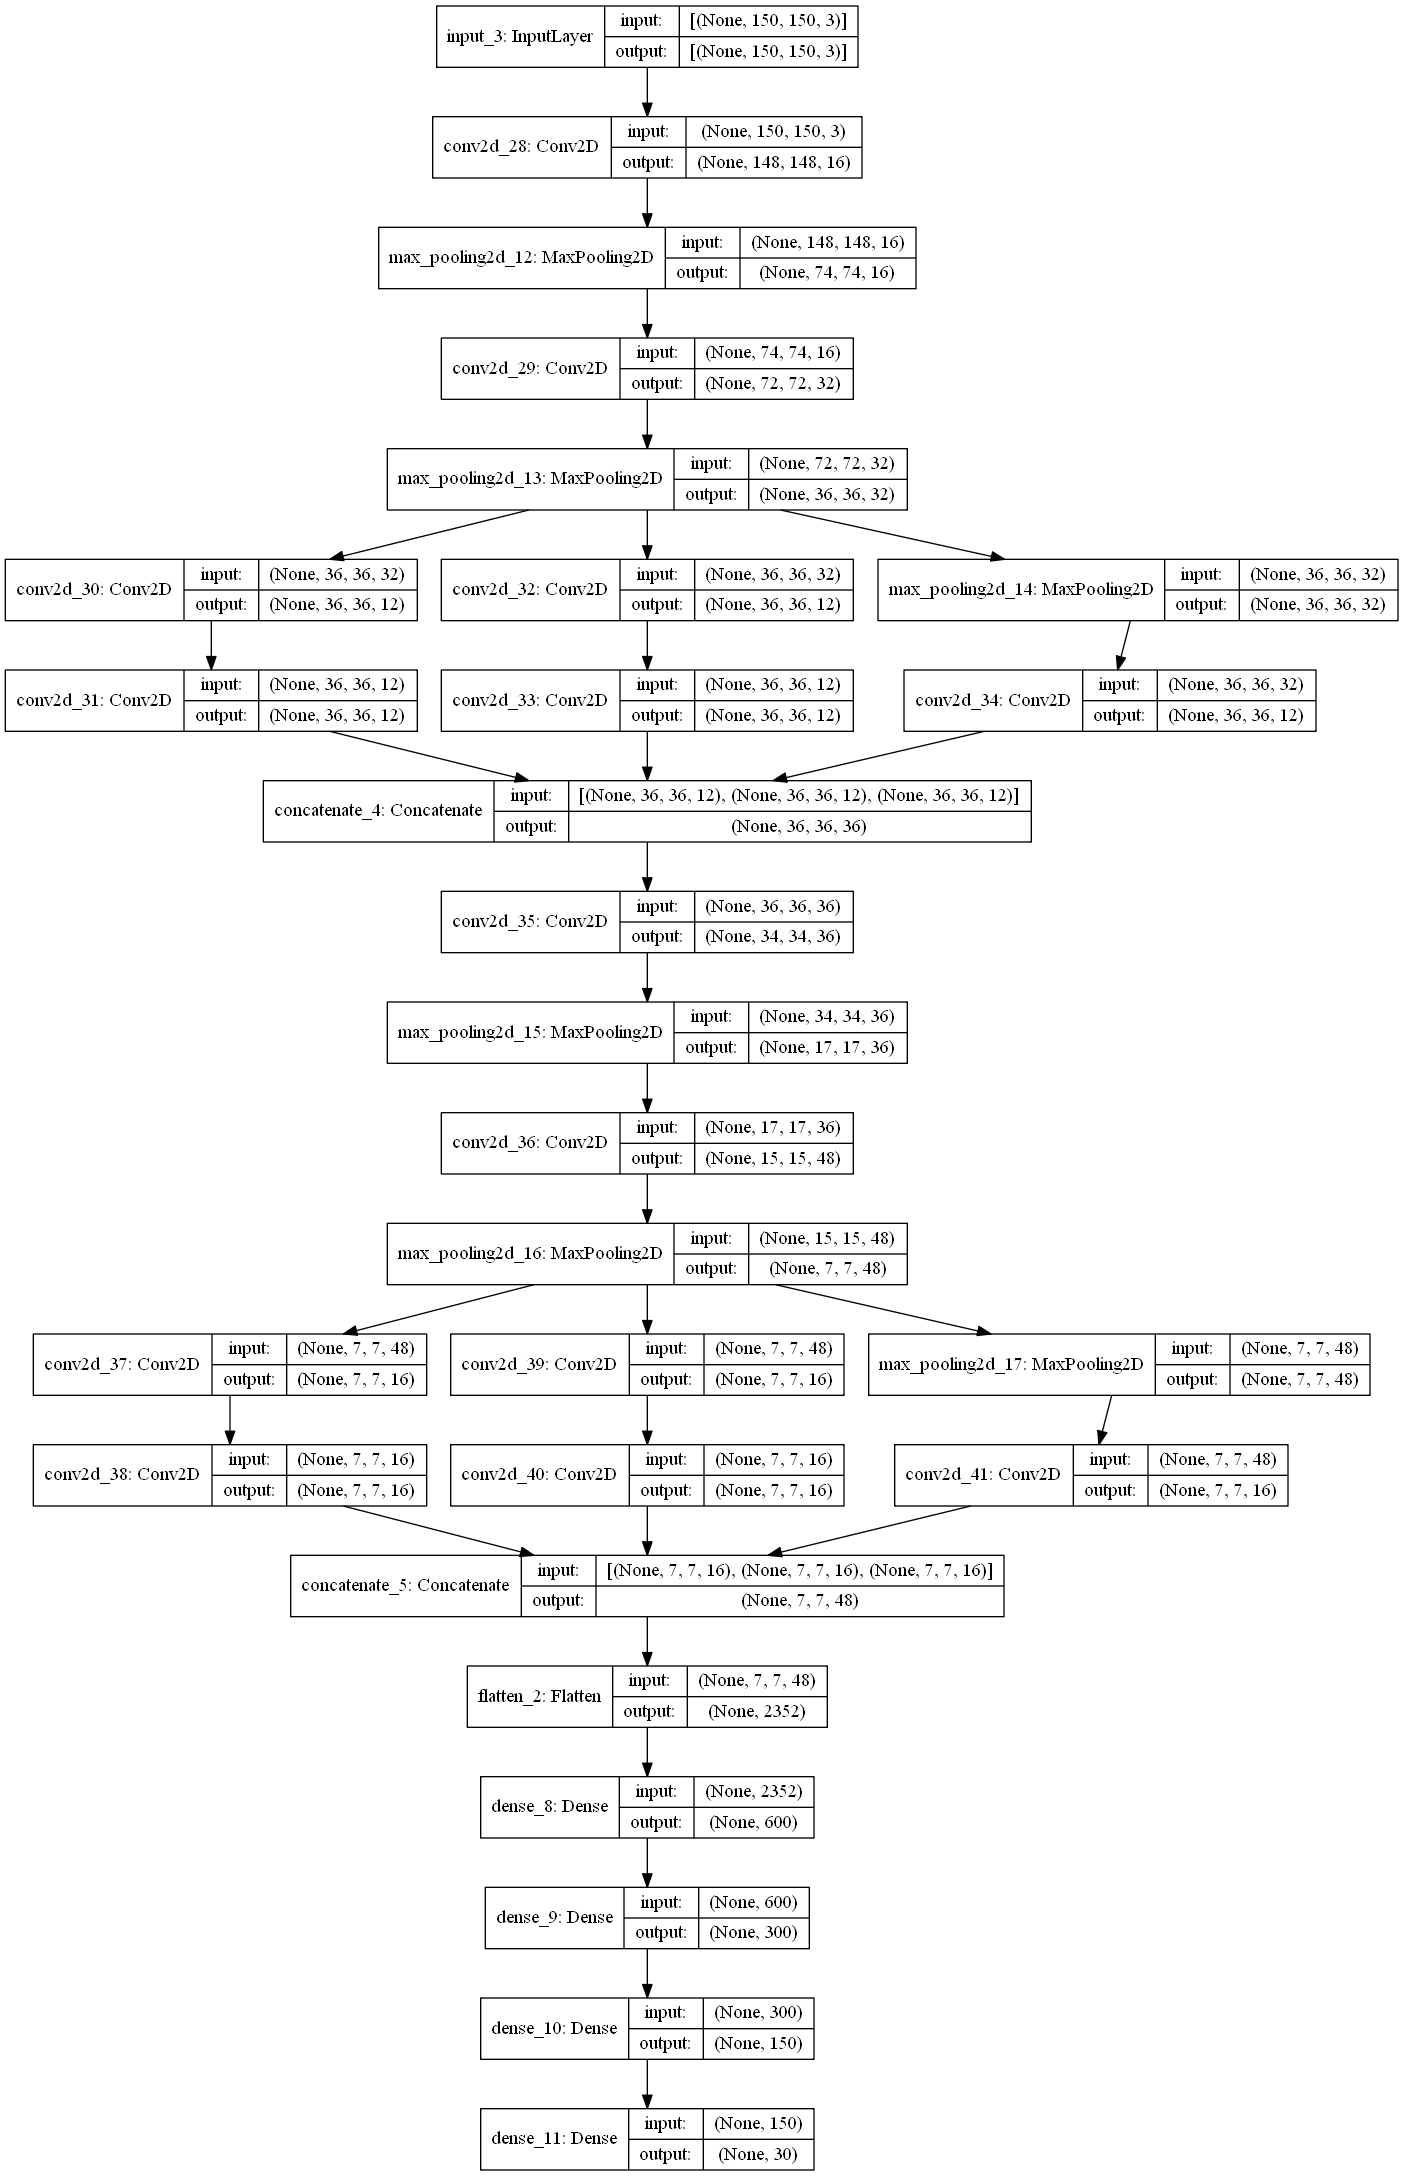
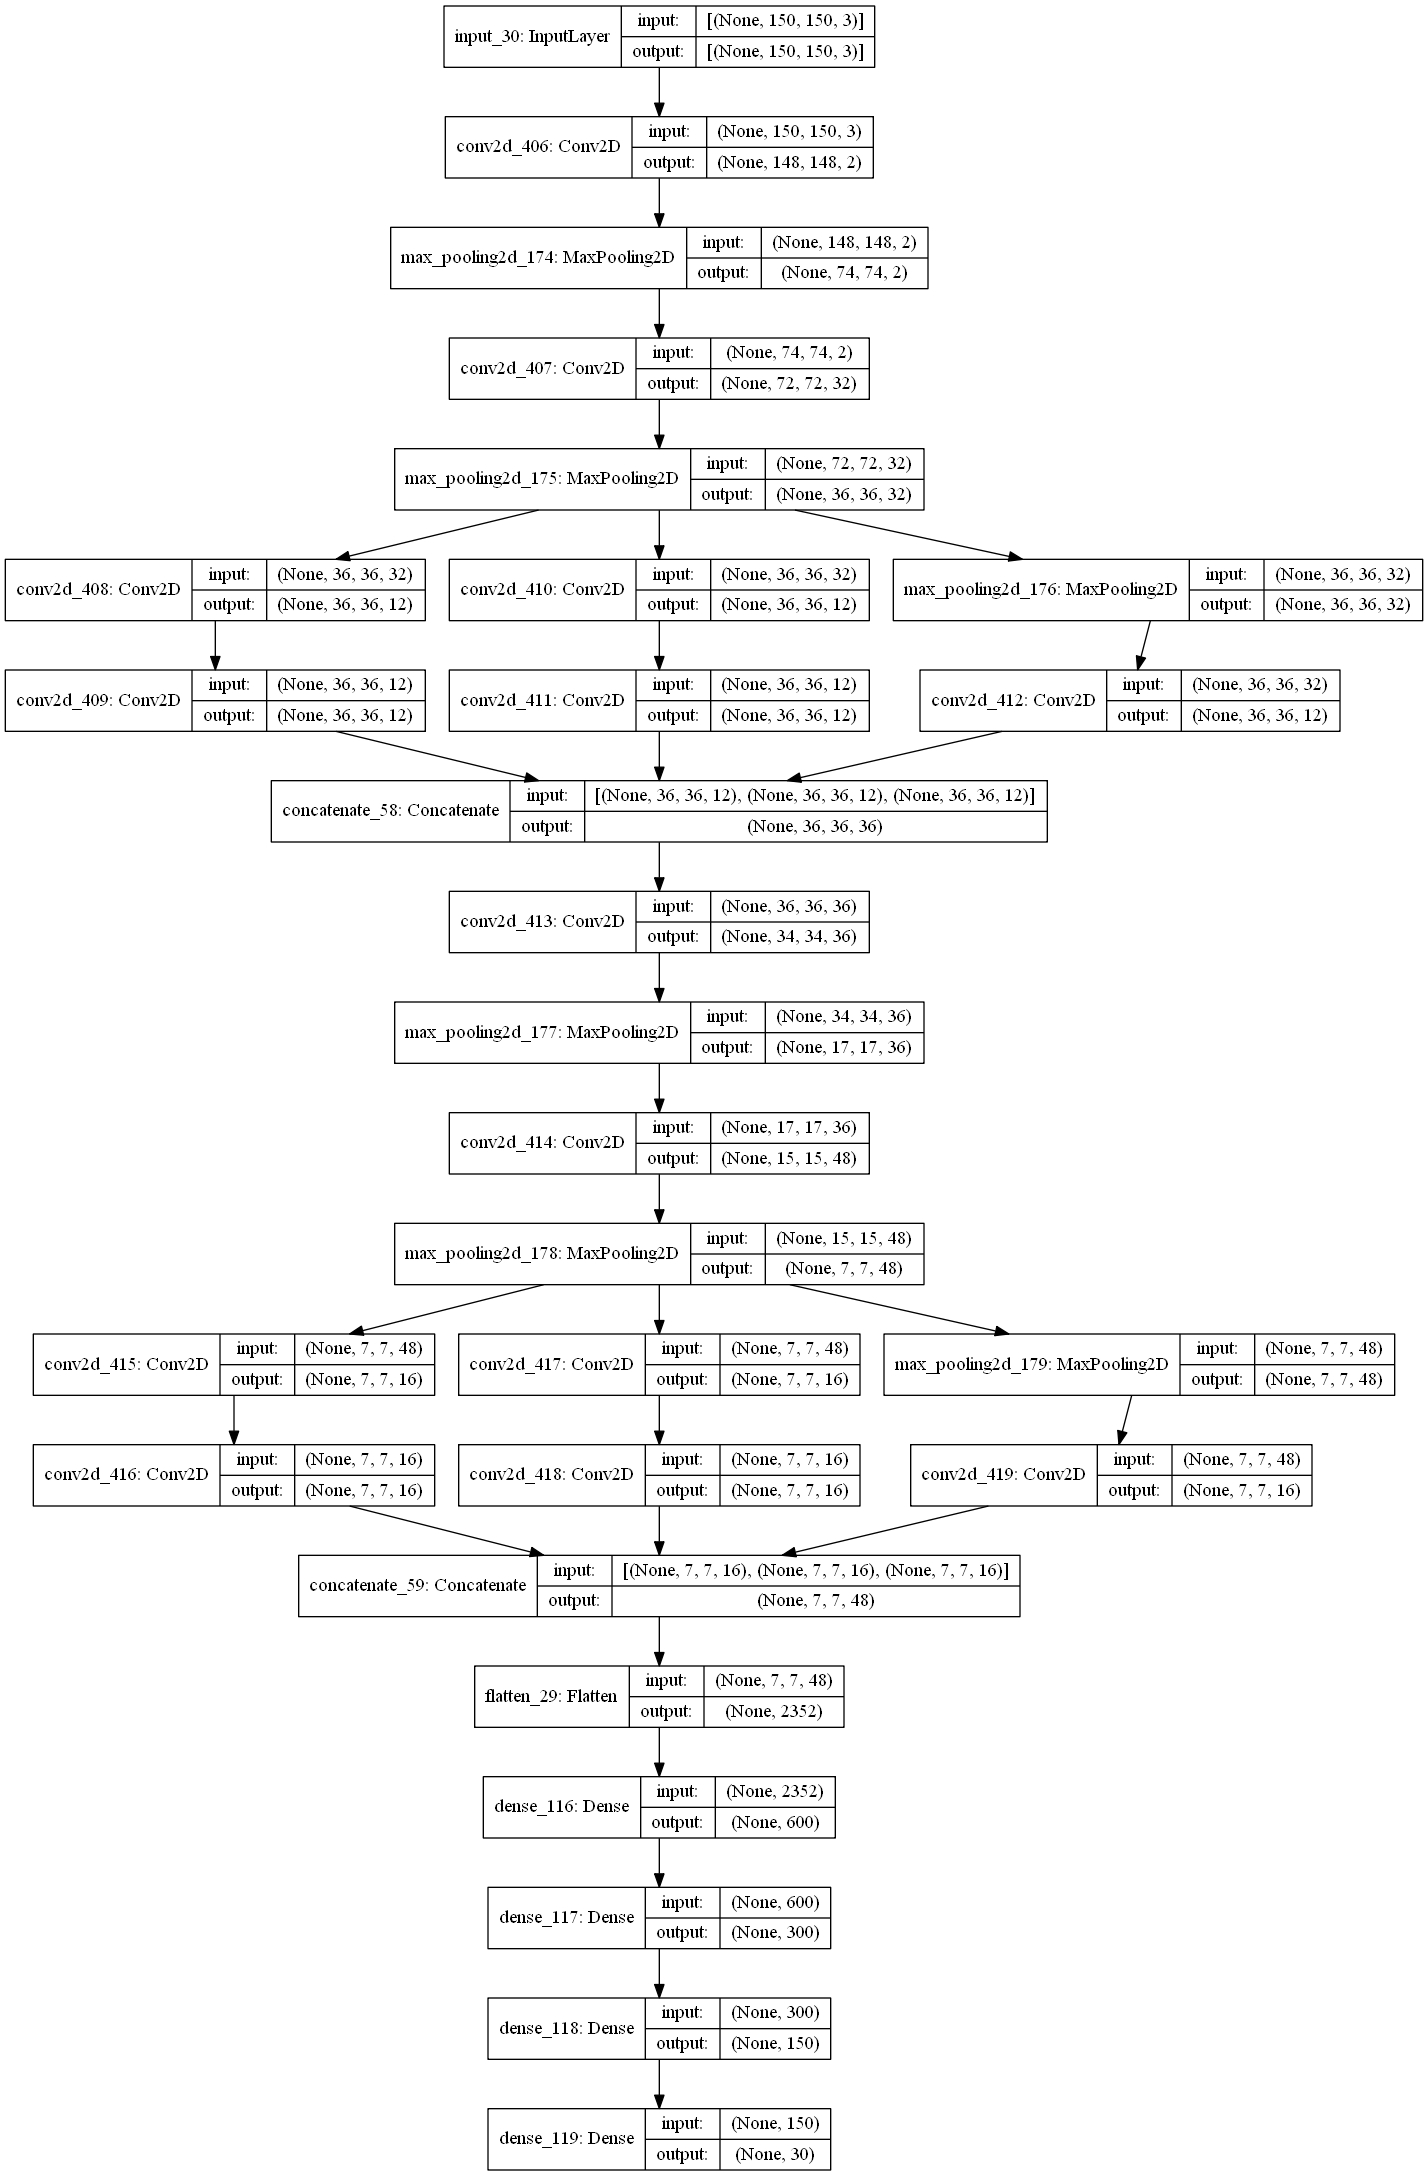
Used Pillow to combine all outputs of every layer of the model

diff --git a/visualization_by_layer.py b/visualization_by_layer.py
@@ -7,17 +7,21 @@ import random
 from   tensorflow.keras.preprocessing.image import img_to_array, load_img
 import matplotlib.pyplot as plt
 from Inception import my_model
-from constants import training_image
+from constants import training_image, training_directory, visualizations
+from PIL import Image
+
+np.seterr(divide='ignore', invalid='ignore')
 
 class visualization_by_layer():
     
     def __init__(self, animal):
-        self.path = training_image + animal
+        # Creates a list of every animal in the specified folder
+        self.path = training_directory + animal
         self.all_the_data = []
         for image_id in os.listdir(self.path):
             if os.path.isfile(self.path + "\\" + image_id):
                 self.all_the_data.append(image_id)
-        
+        # Randomly chooses an animal in the aggregated file paths
         img_path = random.choice(self.all_the_data)
         img = load_img(self.path + "\\" + img_path, target_size=(150, 150))
         x = img_to_array(img)
@@ -30,38 +34,42 @@ class visualization_by_layer():
         visualization_model = tf.keras.models.Model(inputs = my_model.input, outputs = successive_outputs)
         successive_feature_maps = visualization_model.predict(x)
 
-        #layer_names = [layer.name for layer in successive_outputs]
-        
+        position = 0
+        list_of_layers = []
         for layer, feature_map in zip(successive_layers, successive_feature_maps):
-  
+
             if len(feature_map.shape) == 4:
+                
                 # Only for the conv/maxpool layers, not the fully-connected layers
                 # feature map shape (1, size, size, n_features)
                 n_features = feature_map.shape[-1]
                 size = feature_map.shape[1]
             
-                # Tile our images in this matrix
+                # Tile images in this matrix
                 display_grid = np.zeros((size, size * n_features))
                 
-                # Postprocess the feature to be visually palatable
+                # Postprocess the feature
                 for i in range(n_features):
                     x  = feature_map[0, :, :, i]
                     x -= x.mean()
-                    x /= x.std ()
+                    x /= x.std()
                     x *=  64
                     x += 128
                     x  = np.clip(x, 0, 255).astype('uint8')
-                    display_grid[:, i * size : (i + 1) * size] = x # Tile each filter into a horizontal grid
+                    # Tile each filter into a horizontal grid
+                    display_grid[:, i * size : (i + 1) * size] = x
                 
                 width = 20. / n_features
                 height = 10. / n_features
+                plt.rcParams.update({'figure.max_open_warning': 0})
                 plt.figure(figsize=(width * n_features, height))
                 
+                # Function that formats the title of the layer and provides
+                # cursory information based on the type of layer
                 def get_layer_information(layer_name):
                     
                     information = []
                     title = ''
-                    title_info = ''
                     
                     layers_names = {
                             'conv2d' : "Convolutional 2D",
@@ -99,15 +107,44 @@ class visualization_by_layer():
                                   + ", Strides: " + information[2])
                     elif key == 'concatenate':
                         plt.title(title + ", Axis: " + information[1])
-
                 
                 get_layer_information(layer.name.lower())
                 
-                #plt.title(layer_info[0] + " " + str(layer.get_config()[layer_info[1]]))
                 plt.grid(False)
-                plt.imshow(display_grid, aspect='auto', cmap='viridis')
-                plt.savefig(training_image + '\\foo.png', bbox_inches='tight')
+                #plt.imshow(display_grid, aspect='auto', cmap='viridis')
+                
+                # Saves the output of every layer in the specified folder so they
+                # can be combined later
+                plt.savefig(visualizations + '\\' + str(position) + '.png', bbox_inches='tight')
+                list_of_layers.append(visualizations + '\\' + str(position) + '.png')
+                
+                position += 1
+
+        images = []
+        for each_layer in list_of_layers:
+            images.append(each_layer)
+        
+        widths, heights = zip(*(Image.open(each_image).size for each_image in images))
+        # Because of line 63, the width will be more or less the same for
+        # every output (depending on # of filters), however some are wider 
+        # than others by a few pixels leading to black space behind the image,
+        # so the minimum width is taken instead of the maximum
+        min_width = min(widths)
+        total_height = sum(heights)
+        
+        new_im = Image.new('RGB', (min_width, total_height))
+        
+        y_offset = 0    
+        for im in images:
+          new_im.paste(Image.open(im), (0,y_offset))
+          y_offset += Image.open(im).size[1]
+        
+        # Removes the files that each contain the output of one layer
+        for each_file in os.listdir(visualizations):
+            if os.path.isfile(visualizations + '\\' + each_file):
+                os.remove(visualizations + '\\' + each_file)
             
+        new_im.save(visualizations + '\\output_by_layers.jpg')
             
                 
-visualization_by_layer("Lion")
+visualization_by_layer("wolf")

diff --git a/constants.py b/constants.py
@@ -13,6 +13,7 @@ training_directory = external_drive_location + "\\train\\"
 testing_directory = external_drive_location + "\\test\\"
 predicting_directory = external_drive_location + "\\predict\\"
 labels_directory = external_drive_location + "\\animals_labels_train.csv"
+visualizations = github_drive_location + '\\Visualizations\\'
 
 training_image = "D:\\train\\"
 

diff --git a/Inception.py b/Inception.py
@@ -11,7 +11,7 @@ from constants import github_drive_location
 
 input_img = Input(shape=(150, 150, 3))
 
-layer_1 = Conv2D(16, (3,3), activation='relu')(input_img)
+layer_1 = Conv2D(2, (3,3), activation='relu')(input_img)
 layer_2 = MaxPooling2D((2,2))(layer_1)
 
 layer_3 = Conv2D(32, (3,3), activation='relu')(layer_2)
